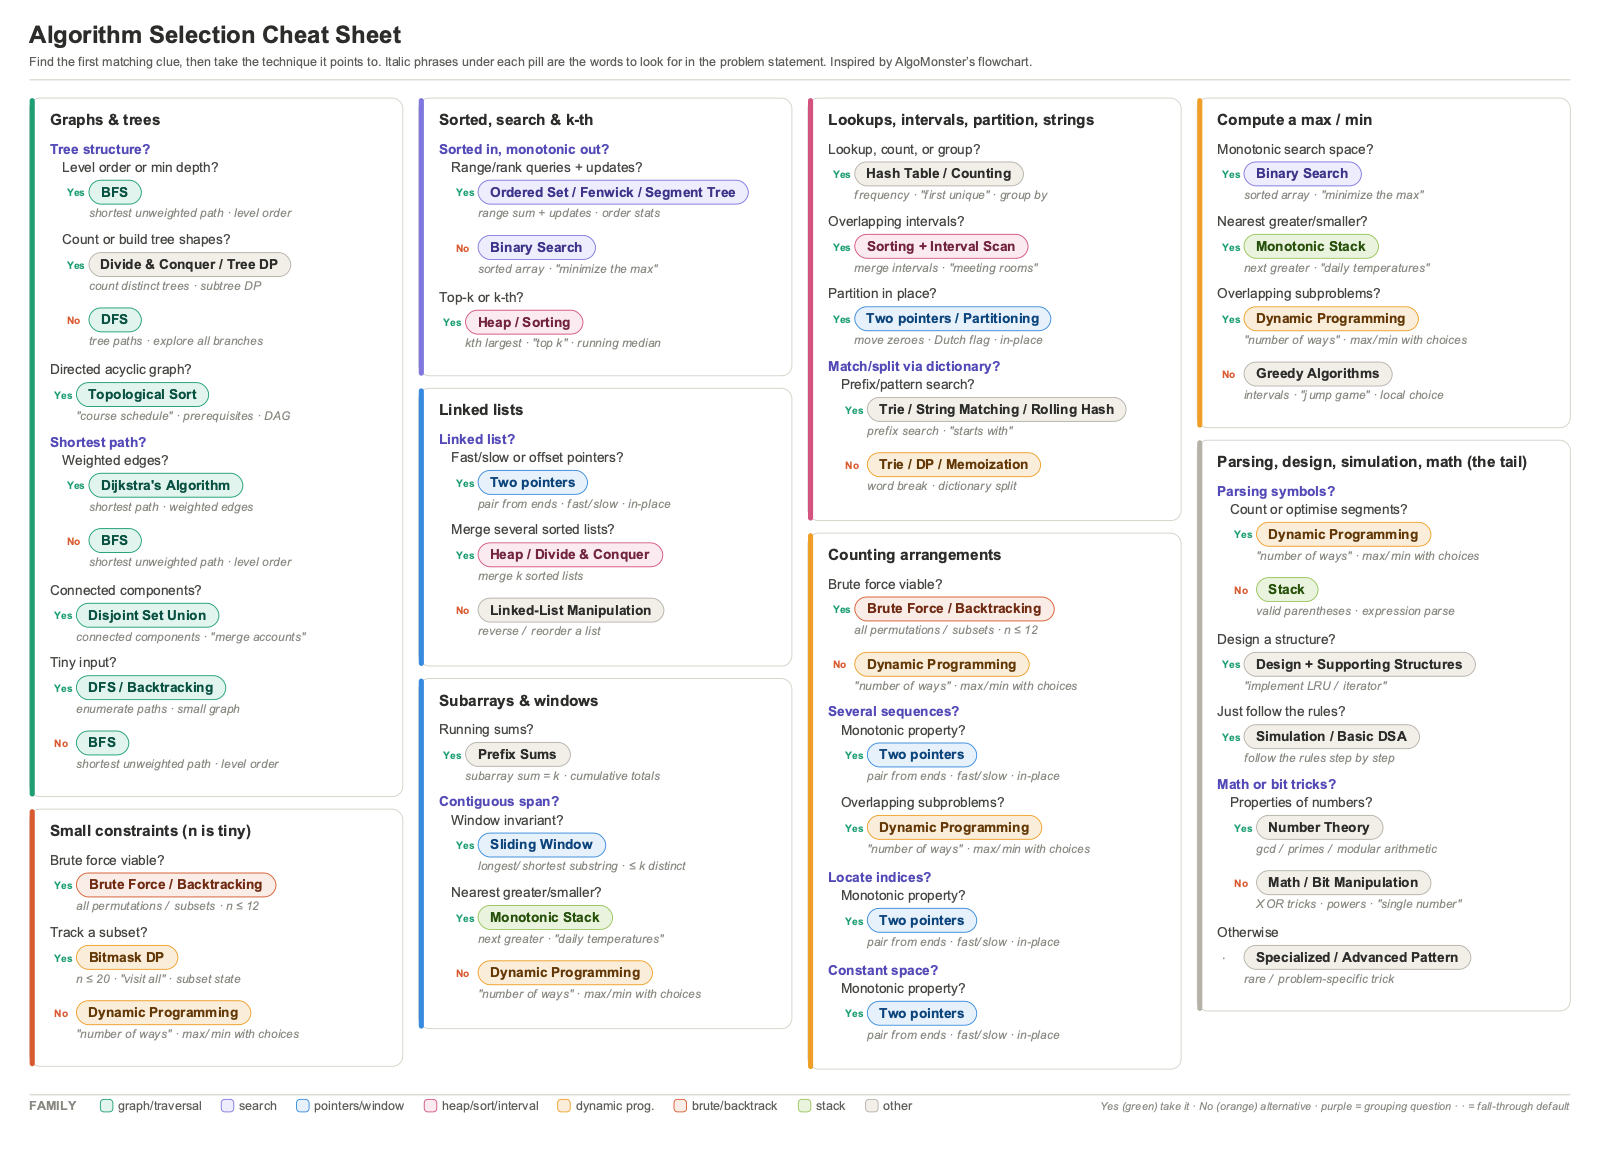
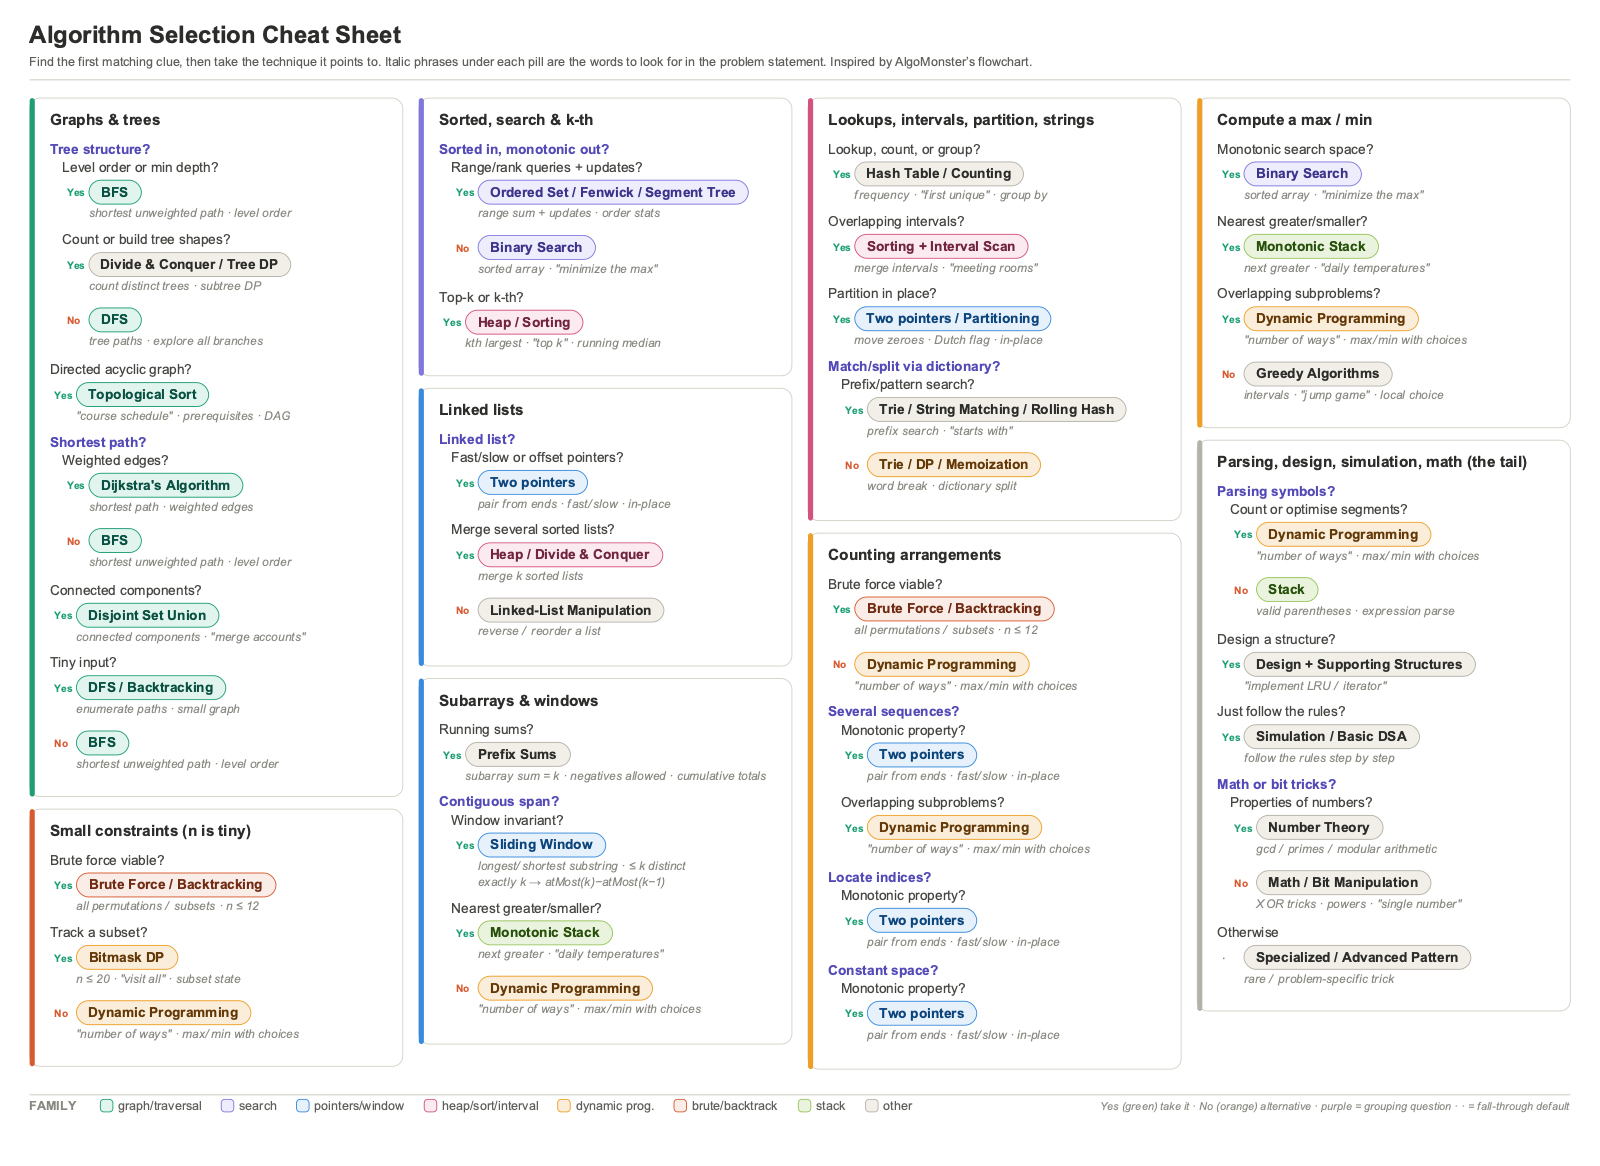
Add exactly-k and negatives-allowed triggers, plus || line-break token for trigger phrases

Changed region(s): [[0.2812, 0.741, 0.4375, 0.8954], [0.4375, 0.6484, 0.4688, 0.6792], [0.375, 0.6484, 0.4062, 0.6792]]

diff --git a/build.py b/build.py
@@ -104,7 +104,8 @@ def pill(x,y,text,frag,maxw):
 def kw_under(x,y,text,maxw,frag,emit):
     kw=KEYWORDS.get(text,'')
     if not kw: return 0
-    lines=wrap(kw,KF,maxw)[:2]
+    # ` || ` forces a line break between trigger phrases; each segment still wraps on width.
+    lines=[ln for seg in kw.split(' || ') for ln in wrap(seg,KF,maxw)][:2]
     for ln in lines:
         if emit:
             frag.append(f'<text x="{x:.1f}" y="{y+8:.1f}" font-size="{KF}" fill="#888780" font-style="italic">{esc(ln)}</text>')